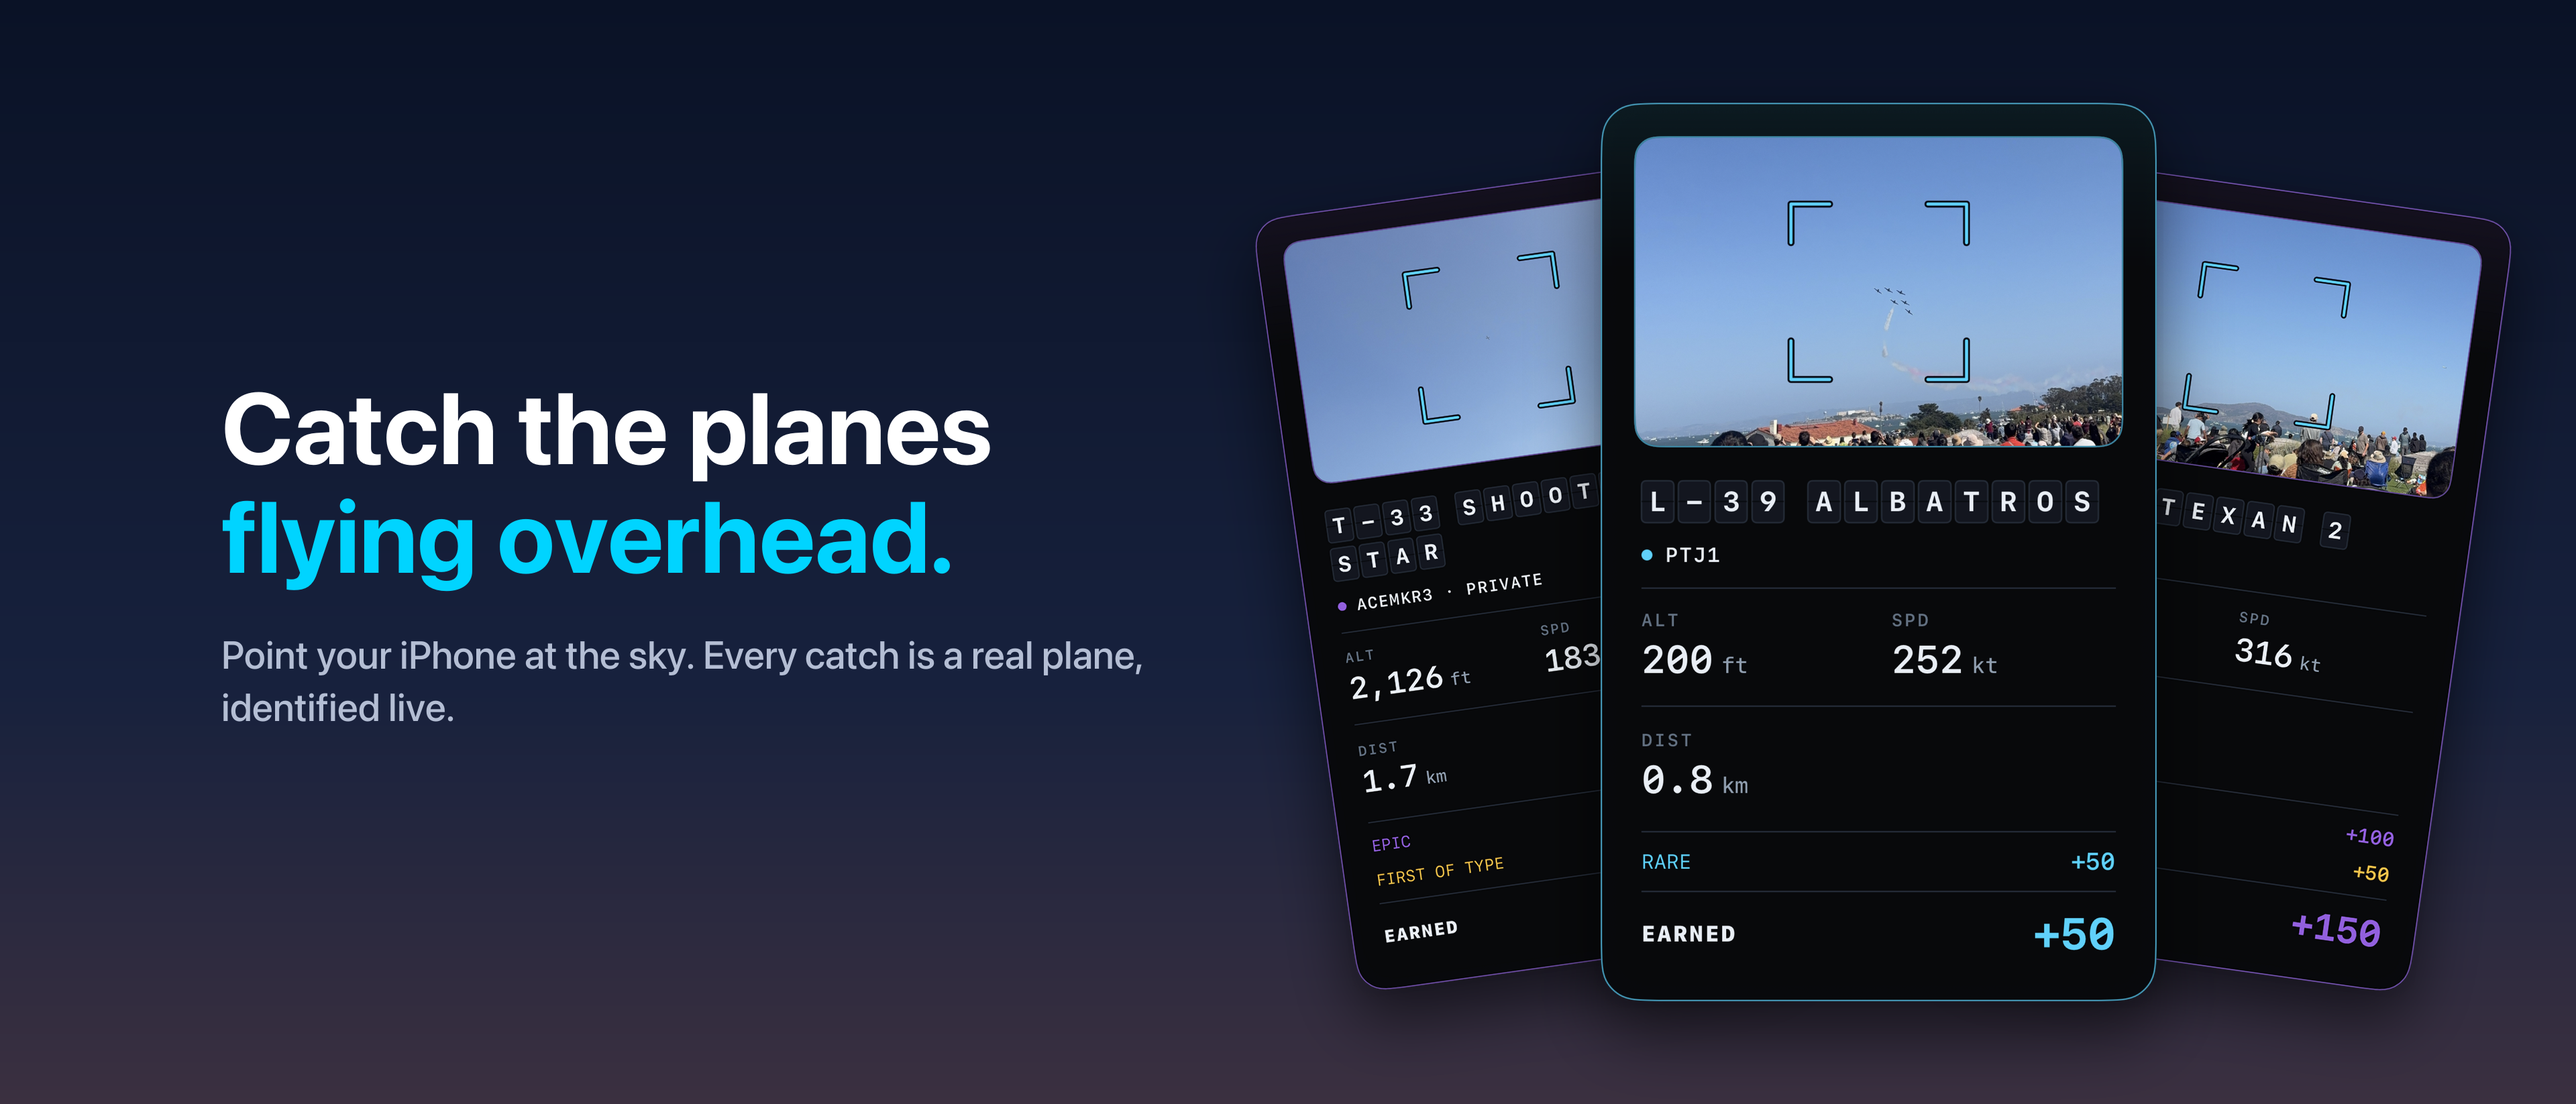
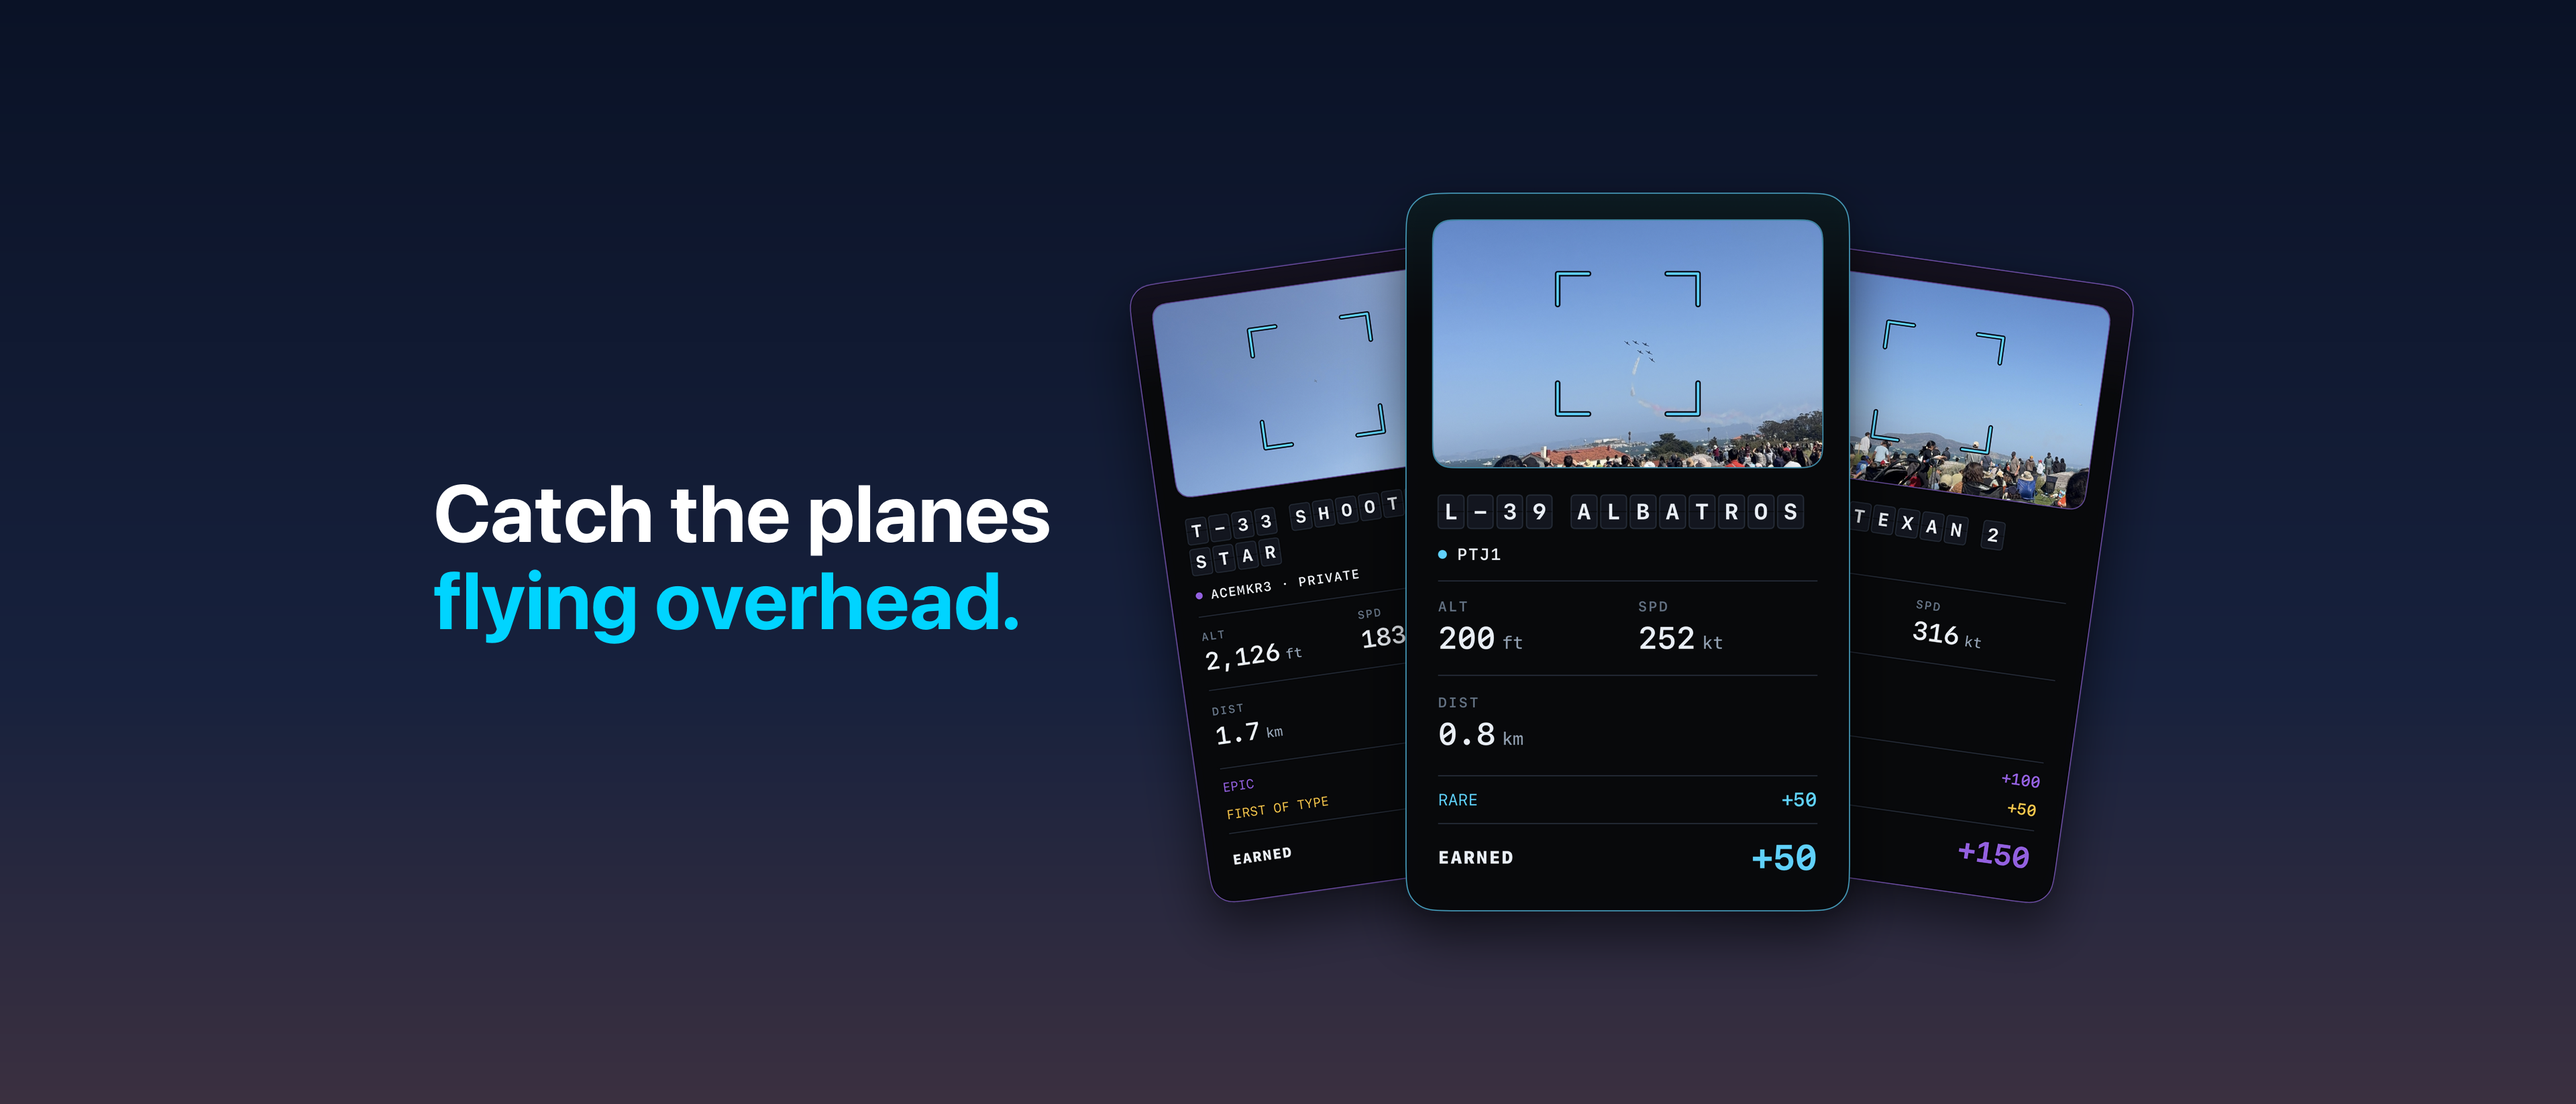
Header fits the iPhone's 16:9 crop; drop sublines from header and search
App Store Connect's preview shows a 16:9 centre crop of the 21:9 header
(~457 px off each side), which cut off the T-6 card and left the headline
on the edge. The headline and cards are now one group, scaled to fit that
crop with a margin. Sublines removed from header, search and universal:
too small to read at those scales (Noah's review). v1.2.2 release folder
updated.

Changed region(s): [[0.0625, 0.1239, 1.0, 0.9295], [0.625, 0.6817, 0.6875, 0.7126]]

diff --git a/marketing/app-store-creative/compose.py b/marketing/app-store-creative/compose.py
@@ -138,29 +138,52 @@ def text_height(lines, size, sub, sub_size, width):
 
 
 def header():
+    """Headline + the airshow trio, laid out as ONE group centred in the
+    frame. On iPhone the product page shows a 16:9 centre crop of this 21:9
+    image (about 2926 of the 3840 px; ~457 px fall off each side), with the
+    back / share buttons over the top corners. So the group is scaled to fit
+    inside that crop with a margin. No subline: at header scale it was too
+    small to read (Noah, 2026-10-12)."""
     W, H = 3840, 1646
+    crop_w = H * 16 / 9                 # what an iPhone actually shows
+    max_group_w = crop_w - 2 * 170      # keep a margin inside the crop
     c = gradient(W, H)
     lines = ["Catch the planes", "flying overhead."]
-    sub = "Point your iPhone at the sky. Every catch is a real plane, identified live."
-    th = text_height(lines, 150, sub, 58, 1500)
-    text_block(c, 330, (H - th) // 2, lines, 150, accent_line=1,
-               sub=sub, sub_size=58, width=1500)
-    side = card("t33", 1180)
-    place(c, side, 2270, 860, angle=8)
-    side = card("t6", 1180)
-    place(c, side, 3330, 860, angle=-8)
-    place(c, card("l39", 1360), 2800, 823)
+
+    def layout(k):
+        size = round(150 * k)
+        f = font(FONT_BOLD, size, "Bold")
+        text_w = max(ImageDraw.Draw(c).textlength(l, font=f) for l in lines)
+        gap, spread, tilt = 130 * k, 530 * k, 8
+        t33, l39, t6 = card("t33", round(1180 * k)), card("l39", round(1360 * k)), card("t6", round(1180 * k))
+        left = -spread - t33.rotate(tilt, expand=True).width / 2
+        right = spread + t6.rotate(-tilt, expand=True).width / 2
+        return size, text_w, gap, spread, tilt, (t33, l39, t6), left, right, text_w + gap + right - left
+
+    k = 1.0
+    while True:
+        size, text_w, gap, spread, tilt, (t33, l39, t6), left, right, group_w = layout(k)
+        if group_w <= max_group_w or k < 0.5:
+            break
+        k -= 0.02
+    x0 = (W - group_w) / 2
+    front_cx = x0 + text_w + gap - left
+
+    th = len(lines) * round(size * 1.08)
+    text_block(c, round(x0), (H - th) // 2, lines, size, accent_line=1)
+    place(c, t33, front_cx - spread, H / 2 + 37 * k, angle=tilt)
+    place(c, t6, front_cx + spread, H / 2 + 37 * k, angle=-tilt)
+    place(c, l39, front_cx, H / 2)
     return c
 
 
 def phone_and_card(W, H, scale, text_x, phone_cx, card_cx, card_h=0.70):
     c = gradient(W, H)
     lines = ["Point at the sky.", "Catch real planes."]
-    size, sub_size = round(170 * scale), round(64 * scale)
-    sub = "Tailspot identifies the aircraft overhead and adds each one to your collection."
-    th = text_height(lines, size, sub, sub_size, round(1350 * scale))
-    text_block(c, text_x, (H - th) // 2, lines, size, accent_line=1,
-               sub=sub, sub_size=sub_size, width=round(1350 * scale))
+    # No subline: too small to read at search-results scale (Noah, 2026-10-12).
+    size = round(170 * scale)
+    th = len(lines) * round(size * 1.08)
+    text_block(c, text_x, (H - th) // 2, lines, size, accent_line=1)
     p = phone(round(H * 0.86))
     place(c, p, phone_cx, H // 2)
     place(c, card("e6", round(H * card_h)), card_cx, round(H * 0.54), angle=-6)

diff --git a/marketing/app-store-creative/README.md b/marketing/app-store-creative/README.md
@@ -31,3 +31,10 @@ Every card and the HUD screen are the app's own views; `compose.py` only
 lays them out on the deck's dusk gradient and sets the headline in SF Pro
 Display. Header: the airshow trio (T-33, Patriots L-39, T-6). Search and
 universal: the HUD (C-27J over the Golden Gate) beside the Legendary E-6.
+Headlines only, no subline (too small to read at these scales).
+
+**The header is cropped on iPhone.** App Store Connect's preview shows a
+16:9 centre crop of the 21:9 image (about 2926 of 3840 px), with the back
+and share buttons over the top corners. `header()` sizes the headline and
+cards as one group that fits inside that crop with a margin; check the
+Preview tool in App Store Connect after any layout change.
